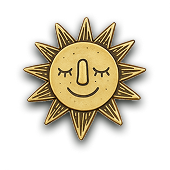
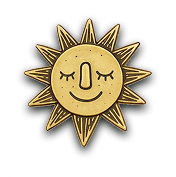
Refactor code structure for improved readability and maintainability

Changed region(s): [[0.1176, 0.0882, 0.8824, 0.8529]]

diff --git a/taro-app/src/components/MagicLoader.tsx b/taro-app/src/components/MagicLoader.tsx
@@ -1,5 +1,6 @@
 import { FC } from 'react';
 import { Text } from '@vkontakte/vkui';
+import pinStarIcon from '../assets/particles.png';
 
 interface MagicLoaderProps {
   text?: string;
@@ -96,7 +97,6 @@ export const MagicLoader: FC<MagicLoaderProps> = ({
         
         {/* Центральная звезда */}
         <div style={{
-          fontSize: currentSize.iconSize,
           animation: 'magicTwinkle 1s ease-in-out infinite alternate',
           display: 'flex',
           alignItems: 'center',
@@ -104,7 +104,15 @@ export const MagicLoader: FC<MagicLoaderProps> = ({
           position: 'relative',
           zIndex: 1
         }}>
-          ✨
+          <img 
+            src={pinStarIcon} 
+            alt="star" 
+            style={{
+              width: currentSize.iconSize,
+              height: currentSize.iconSize,
+              objectFit: 'contain'
+            }}
+          />
         </div>
       </div>
 
